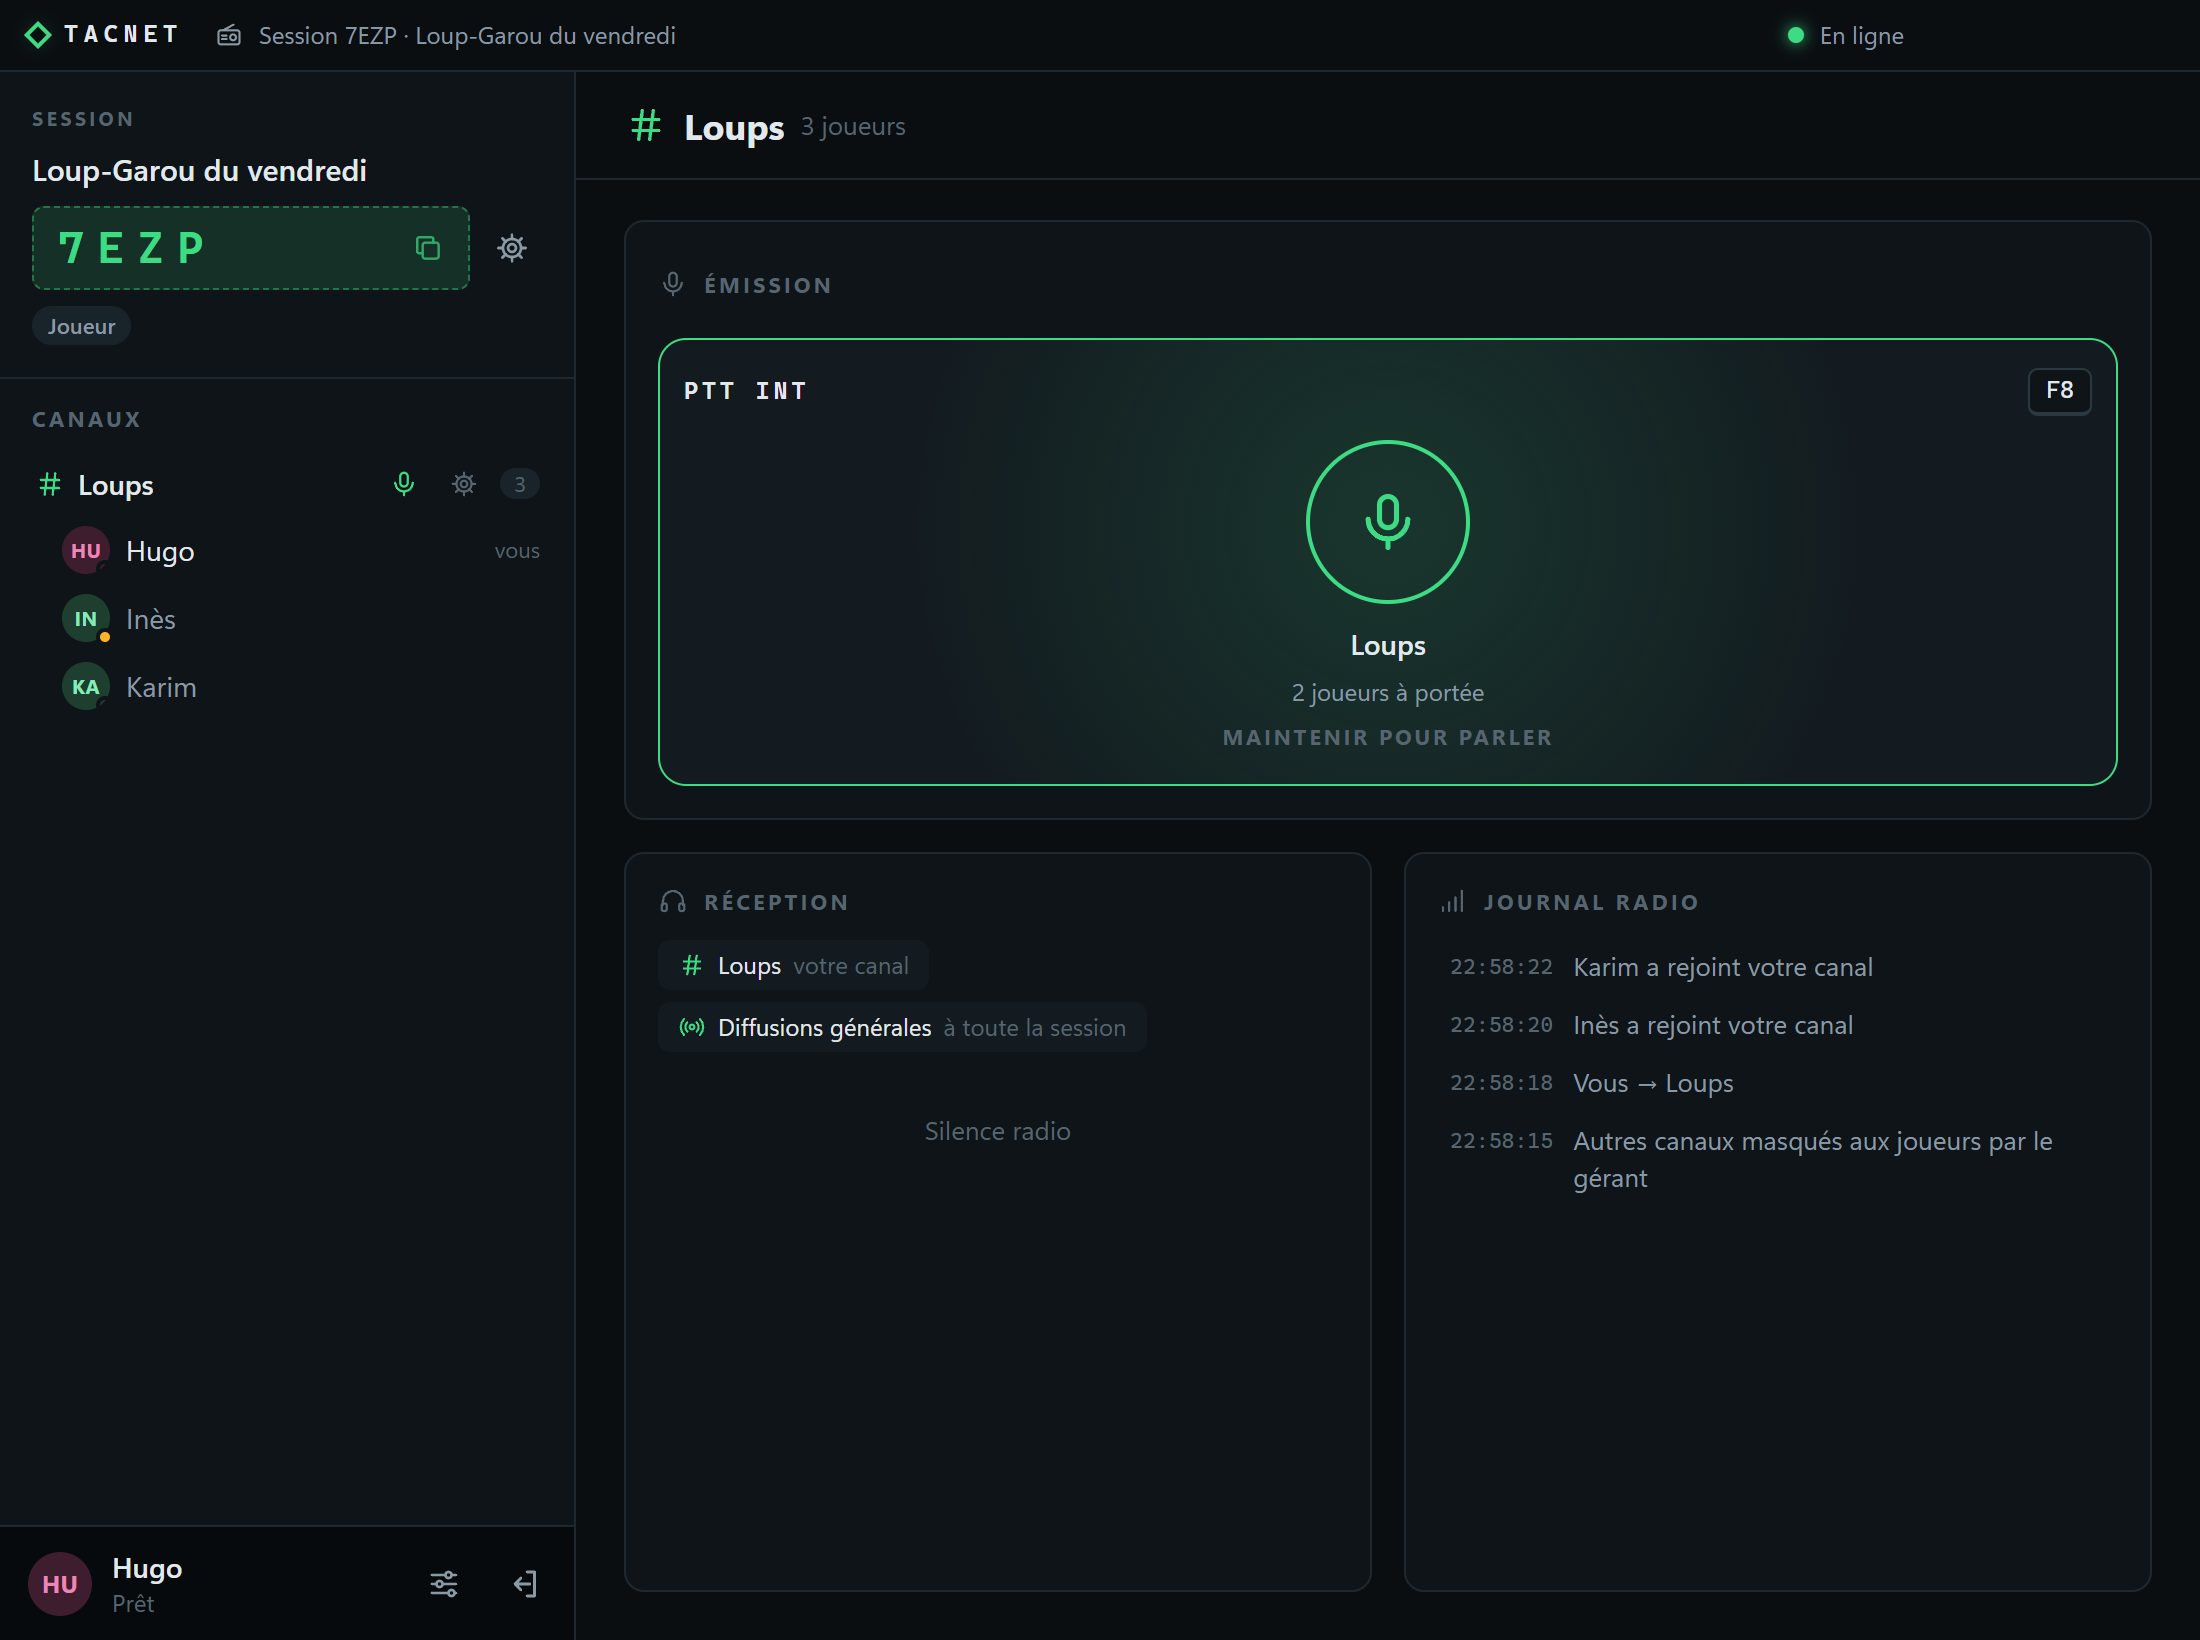
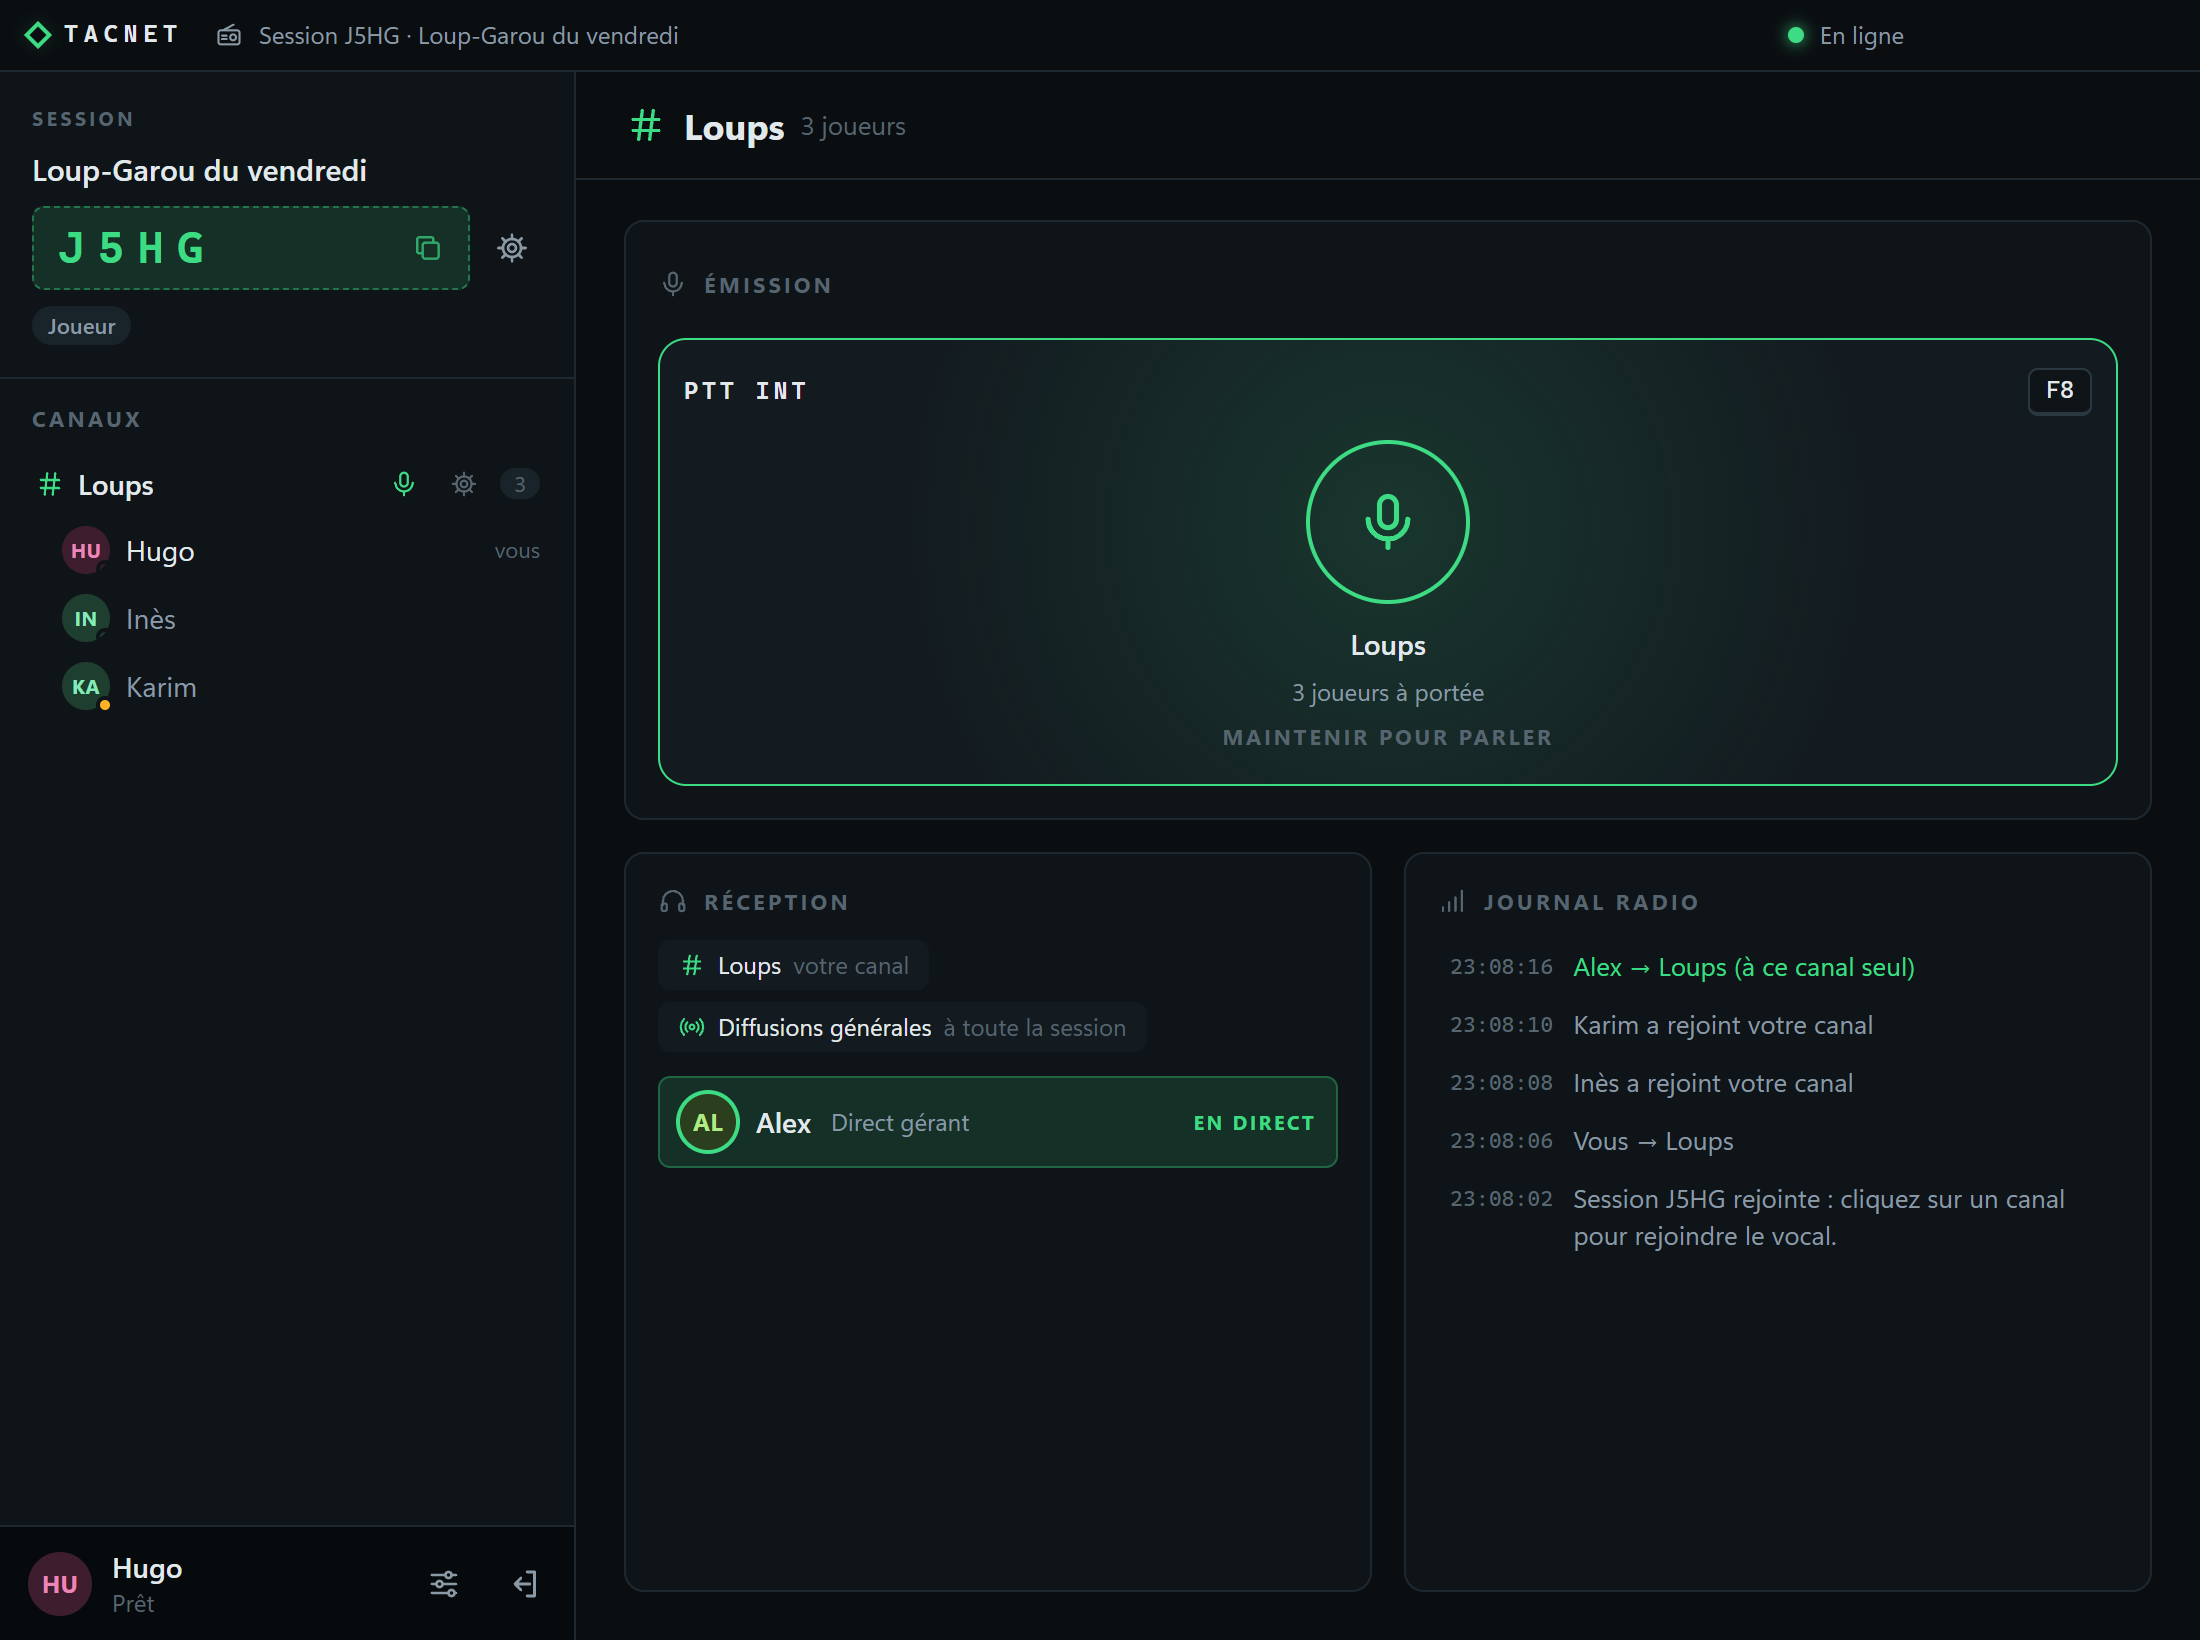
Exemple du Loup-Garou corrigé : débat sur Discord, TACNET la nuit
Principe : le jour, tout le monde débat sur Discord ; la nuit, micros coupés sur Discord et le
narrateur parle aux rôles de nuit sur TACNET (loups, voyante, sorcière). Chacun garde son canal
toute la partie, les villageois restent hors canal vocal. Nouvelles captures.

diff --git a/README.md b/README.md
@@ -53,39 +53,39 @@ Le pas-à-pas détaillé est dans le guide (`README.html`) de `TACNET_APP.zip`. 
 
 ## Exemple : le Loup-Garou à 10 joueurs
 
-Les canaux masqués servent à garder un secret. Voici une partie de Loup-Garou en version simple : **3 loups-garous et 7 villageois**, sans les autres rôles. Le narrateur est le **gérant** : il ne joue pas, voit tout et place les joueurs.
+Les canaux masqués servent à garder un secret. Exemple avec une partie de Loup-Garou à 10 joueurs : **3 loups-garous, 1 voyante, 1 sorcière et 5 villageois** (les autres rôles se gèrent de la même façon).
 
-**Mise en place**
+**Le principe** : TACNET ne remplace pas votre vocal habituel, il le complète. Le jour, tout le monde débat sur Discord (ou un autre vocal). La nuit, tout le monde coupe son micro sur Discord, et le narrateur utilise TACNET pour parler aux rôles de nuit, un par un. Chacun garde le même canal toute la partie : **personne n'a jamais à changer de canal**.
 
-1. Le narrateur crée la session et deux canaux, **Village** et **Loups**, puis active *Masquer les autres canaux aux joueurs* (Paramètres de la session, Communication).
-2. Les 10 joueurs rejoignent avec leur pseudo. Ils arrivent « hors canal vocal » et ne voient personne.
-3. Les rôles sont distribués en dehors de TACNET (cartes, messages privés) : seul le narrateur sait qui est loup.
+**Mise en place, une seule fois**
 
-**La nuit : le village dort**
+1. Le narrateur est le **gérant**. Il crée la session, puis active *Masquer les autres canaux aux joueurs* et *Le gérant entend toutes les communications* (Paramètres de la session, Communication). Il le fait **avant l'arrivée des joueurs** : sinon leurs premiers écrans montrent encore tous les canaux.
+2. Il crée un canal par rôle de nuit, **Loups**, **Voyante** et **Sorcière**, plus un canal **Narrateur** pour lui (il doit être dans un canal pour parler et pour écouter).
+3. Les 10 joueurs rejoignent la session : ils arrivent « hors canal vocal ». Le narrateur place les 3 loups dans Loups, la voyante dans Voyante et la sorcière dans Sorcière (glisser-déposer du joueur sur le canal, ou clic droit sur le joueur puis *Déplacer vers*), puis entre dans son canal. **Les 5 villageois ne bougent pas** : ils restent hors canal vocal, dans la session comme tout le monde, pour que leur présence ne trahisse aucun rôle.
 
-- Le narrateur place les 3 loups dans **Loups** (glisser-déposer du joueur sur le canal, ou clic droit sur le joueur puis *Déplacer vers*). Les loups se voient et se parlent entre eux, et ne voient aucun villageois.
-- Les 7 villageois restent **hors canal vocal** : ils n'entendent rien et ne voient personne. C'est leur façon de dormir.
+**Une nuit**
 
-| Un loup voit sa meute, et personne d'autre | Une villageoise endormie ne voit personne |
+1. Sur Discord, le narrateur annonce « Le village s'endort » : tout le monde coupe son micro.
+2. Sur TACNET, il appelle les rôles l'un après l'autre avec le micro à côté du nom du canal, qui ne parle qu'à ce canal : « Les loups-garous se réveillent ». Les loups se concertent entre eux en PTT Int et le narrateur les entend, ils désignent leur victime. Puis « La voyante se réveille » : elle répond, seul le narrateur l'entend. Puis la sorcière.
+3. Au matin, tout le monde rouvre son micro sur Discord et le narrateur annonce la victime.
+
+| Le narrateur voit tout et appelle un rôle à la fois | Un loup voit ses complices, et le narrateur qui lui parle |
 |---|---|
-| ![Vue d'un loup : le canal Loups avec ses deux complices](docs/loup-garou-loup.png) | ![Vue d'une villageoise endormie : hors canal vocal, seule dans la liste](docs/loup-garou-villageois-nuit.png) |
+| ![Vue du narrateur : les canaux Loups, Voyante, Sorcière et Narrateur, et cinq villageois hors canal vocal](docs/loup-garou-narrateur.png) | ![Vue d'un loup : le canal Loups avec ses deux complices, et le narrateur en direct](docs/loup-garou-loup.png) |
 
-| Le narrateur voit tout | Le jour, le village se réveille |
+| La voyante est seule dans son canal | Un villageois ne voit personne |
 |---|---|
-| ![Vue du narrateur : trois loups dans Loups, les villageois hors canal vocal](docs/loup-garou-narrateur.png) | ![Vue de jour : les 10 joueurs réunis dans le canal Village](docs/loup-garou-jour.png) |
+| ![Vue de la voyante : seule dans le canal Voyante, le narrateur lui parle](docs/loup-garou-voyante.png) | ![Vue d'un villageois : hors canal vocal, seul dans la liste](docs/loup-garou-villageois.png) |
 
-**Le jour : le village se réveille**
+**Ce que chacun voit** : un loup ne voit que ses complices ; la voyante et la sorcière ne voient qu'elles-mêmes ; un villageois ne voit personne et n'entend rien (l'application lui dit « le gérant va vous placer » : c'est normal, il n'a pas besoin de canal) ; seul le narrateur voit tout. Aucun joueur ne peut changer de canal, ni savoir qu'un autre canal existe.
 
-- Le narrateur place les 10 joueurs dans **Village** : tout le monde s'entend et voit les 10 pseudos, le débat peut commencer.
-- Le soir venu, il remet les 3 loups dans **Loups** et les villageois hors canal vocal.
-
-> **Pourquoi pas un canal « Villageois » ?** Un villageois y verrait la liste des 7 villageois, et son journal lui dirait qui est parti. Connaissant les 10 joueurs, il déduirait les loups par élimination. Hors canal vocal, il ne voit rien : il n'y a rien à déduire.
+> **Pourquoi pas un canal « Villageois » ?** Les villageois y verraient la liste des 5 autres villageois et en déduiraient qui a un rôle de nuit. Hors canal vocal, ils ne voient rien.
 
 **Bon à savoir**
 
-- Le narrateur doit être lui-même dans un canal pour parler. Son PTT Général est entendu par tous les joueurs placés dans un canal : annoncez « le village s'endort » avant de les mettre hors canal vocal, et le résultat de la nuit une fois le village réveillé.
-- Pour écouter les loups sans figurer dans leur canal, activez *Le gérant entend toutes les communications* et restez dans Village.
-- Chaque changement de phase demande une dizaine de déplacements. Un adjoint qui ne joue pas peut aider le narrateur : il voit tout, comme lui.
+- Pour un rôle de nuit de plus (Cupidon, par exemple), ajoutez un canal et placez-y le joueur.
+- Le PTT Général du narrateur est entendu par tous les joueurs placés dans un canal, mais pas par les villageois hors canal vocal.
+- Utilisez un casque : sinon la voix jouée par les haut-parleurs peut repartir dans le micro d'un autre vocal.
 
 ## Licence
 
